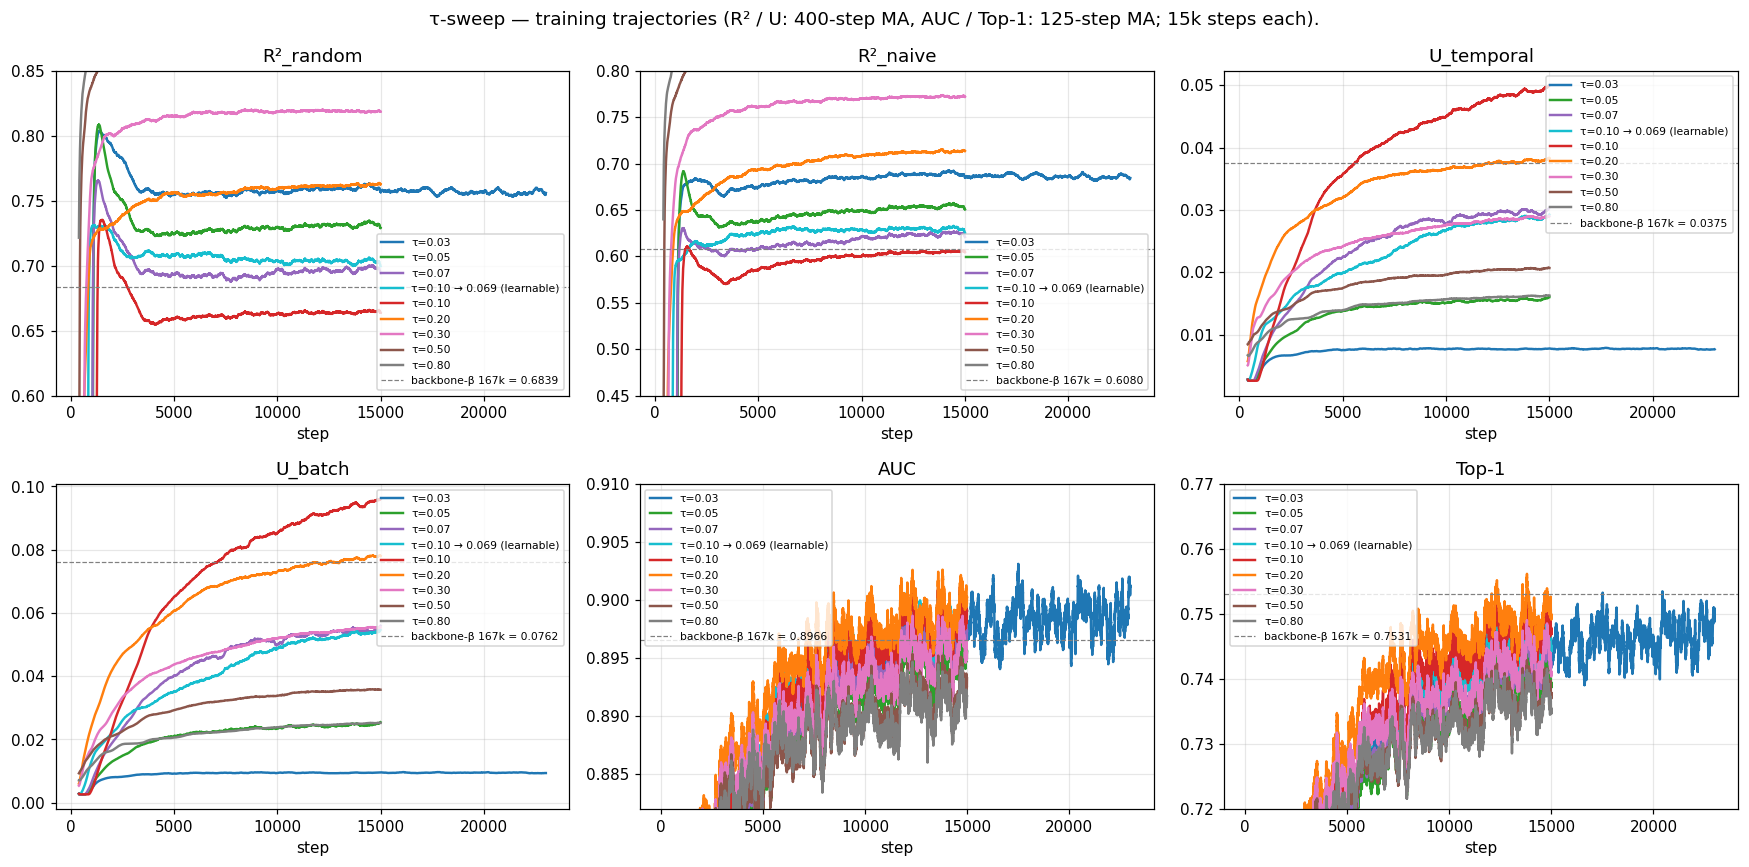
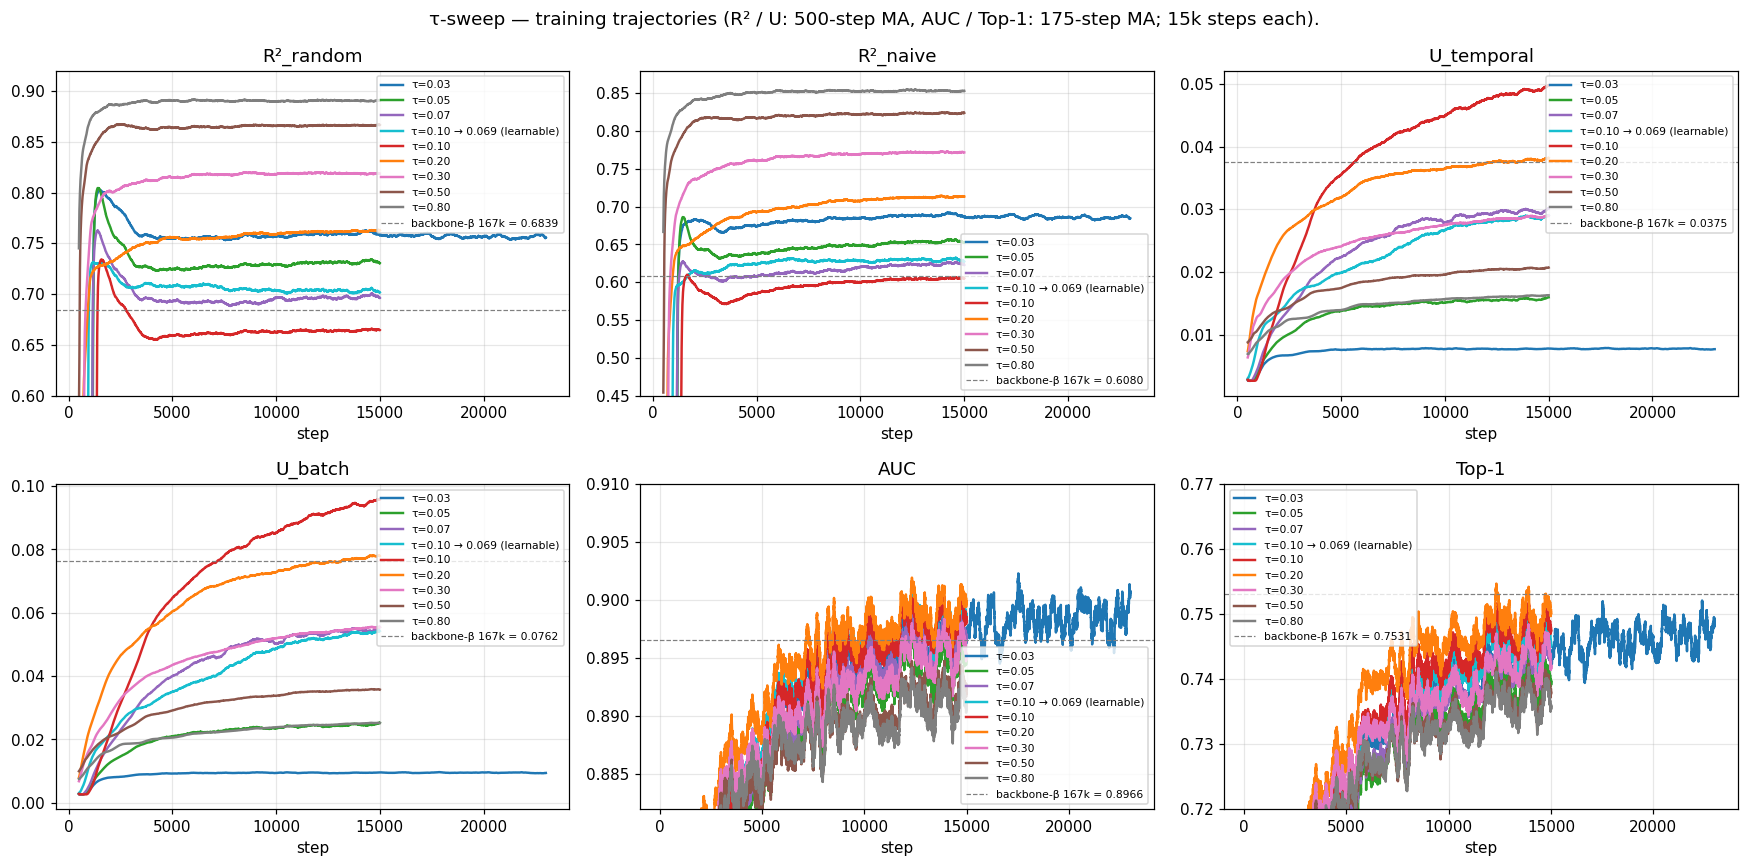
plot(tau-sweep): bump R² ylim + slightly heavier smoothing (#223)
User feedback: τ=0.20 still looks like the best overall (AUC/Top-1
N=50 verdict + R² competitive within usable range), and the
trajectories could use small refinements:

- R²_random ylim 0.85 → 0.92 (top R²_random at 500-step MA is τ=0.80
  at ~0.892; +0.03 headroom).
- R²_naive ylim 0.80 → 0.88 (top τ=0.80 at ~0.855; +0.025 headroom).
- Lower bounds unchanged.
- R² / U smoothing 400 → 500 step MA.
- AUC / Top-1 smoothing 125 → 175 step MA.
- Caption updated.

«Agent Opus 4.7 (1M context) writing»

diff --git a/experiments/2026-05-08_exp_tau_sweep/scripts/plot_tau_sweep_v2.py b/experiments/2026-05-08_exp_tau_sweep/scripts/plot_tau_sweep_v2.py
@@ -97,12 +97,12 @@ def main() -> None:
     # visible; the heavier-curve metrics (R², U, loss) stay at 400.
     # (key, title, ylim, beta_ref, smooth_w)
     metrics = [
-        ("r2_random", "R²_random", (0.60, 0.85), BETA["r2_random"], 400),
-        ("r2_naive",  "R²_naive",  (0.45, 0.80), BETA["r2_naive"],  400),
-        ("u_temporal", "U_temporal", None,       BETA["u_temporal"], 400),
-        ("u_batch",   "U_batch",     None,       BETA["u_batch"],    400),
-        ("auc",       "AUC",        (0.882, 0.910), BETA["auc"],    125),
-        ("top1",      "Top-1",      (0.72, 0.77),   BETA["top1"],   125),
+        ("r2_random", "R²_random", (0.60, 0.92), BETA["r2_random"], 500),
+        ("r2_naive",  "R²_naive",  (0.45, 0.88), BETA["r2_naive"],  500),
+        ("u_temporal", "U_temporal", None,       BETA["u_temporal"], 500),
+        ("u_batch",   "U_batch",     None,       BETA["u_batch"],    500),
+        ("auc",       "AUC",        (0.882, 0.910), BETA["auc"],    175),
+        ("top1",      "Top-1",      (0.72, 0.77),   BETA["top1"],   175),
     ]
 
     fig, axs = plt.subplots(2, 3, figsize=(16, 8))
@@ -127,8 +127,8 @@ def main() -> None:
         ax.grid(alpha=0.3)
         ax.legend(loc="best", fontsize=7)
     fig.suptitle(
-        "τ-sweep — training trajectories (R² / U: 400-step MA, "
-        "AUC / Top-1: 125-step MA; 15k steps each).",
+        "τ-sweep — training trajectories (R² / U: 500-step MA, "
+        "AUC / Top-1: 175-step MA; 15k steps each).",
         fontsize=12)
     fig.tight_layout()
     fig.savefig(OUT_TRAJ, dpi=110, bbox_inches="tight")
